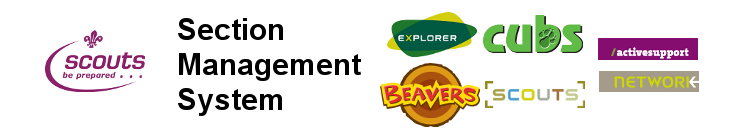
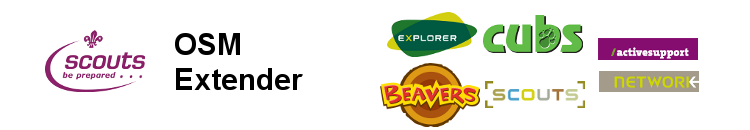
Change name/purpose to OSMExtender.

Changed region(s): [[0.2147, 0.1231, 0.4907, 0.8923]]

diff --git a/db/schema.rb b/db/schema.rb
@@ -11,7 +11,17 @@
 #
 # It's strongly recommended to check this file into your version control system.
 
-ActiveRecord::Schema.define(:version => 20110916141044) do
+ActiveRecord::Schema.define(:version => 20111231163444) do
+
+  create_table "sessions", :force => true do |t|
+    t.string   "session_id", :null => false
+    t.text     "data"
+    t.datetime "created_at"
+    t.datetime "updated_at"
+  end
+
+  add_index "sessions", ["session_id"], :name => "index_sessions_on_session_id"
+  add_index "sessions", ["updated_at"], :name => "index_sessions_on_updated_at"
 
   create_table "users", :force => true do |t|
     t.string   "email_address",                                      :null => false
@@ -27,9 +37,8 @@ ActiveRecord::Schema.define(:version => 20110916141044) do
     t.datetime "reset_password_email_sent_at"
     t.integer  "failed_logins_count",             :default => 0
     t.datetime "lock_expires_at"
-    t.boolean  "admin_system",                    :default => false
-    t.boolean  "admin_sms",                       :default => false
     t.string   "name"
+    t.boolean  "can_administer_users",            :default => false
   end
 
   add_index "users", ["activation_token"], :name => "index_users_on_activation_token"

diff --git a/config/initializers/session_store.rb b/config/initializers/session_store.rb
@@ -1,8 +1,8 @@
 # Be sure to restart your server when you modify this file.
 
-SectionManagementSystem::Application.config.session_store :cookie_store, key: 'SectionManagementSystem_session'
+# OSMExtender::Application.config.session_store :cookie_store, key: 'OSMExtender_session'
 
 # Use the database for sessions instead of the cookie-based default,
 # which shouldn't be used to store highly confidential information
 # (create the session table with "rails generate session_migration")
-# SectionManagementSystem::Application.config.session_store :active_record_store
+OSMExtender::Application.config.session_store :active_record_store

diff --git a/config/initializers/secret_token.rb b/config/initializers/secret_token.rb
@@ -4,4 +4,4 @@
 # If you change this key, all old signed cookies will become invalid!
 # Make sure the secret is at least 30 characters and all random,
 # no regular words or you'll be exposed to dictionary attacks.
[2 lines of base64/hex data omitted]

diff --git a/app/mailers/user_mailer.rb b/app/mailers/user_mailer.rb
@@ -1,5 +1,5 @@
 class UserMailer < ActionMailer::Base
-  default from: "\"Section Management System\" <section-management-system@aberdeen-sas.org.uk>"
+  default from: "\"OSMExtender\" <OSMExtender@robertgauld.co.uk>"
 
   def activation_needed(user)
     @user = user
@@ -55,7 +55,7 @@ class UserMailer < ActionMailer::Base
 
   private
   def build_subject(subject)
-    start = 'Section Management System'
+    start = 'OSMExtender'
     start += " (#{Rails.env.upcase})" unless Rails.env.production?
     return "#{start} - #{subject}"
   end

diff --git a/config/application.rb b/config/application.rb
@@ -9,7 +9,7 @@ if defined?(Bundler)
   # Bundler.require(:default, :assets, Rails.env)
 end
 
-module SectionManagementSystem
+module OSMExtender
   class Application < Rails::Application
     # Settings in config/environments/* take precedence over those specified here.
     # Application configuration should go into files in config/initializers

diff --git a/db/migrate/20111231163444_add_sessions_table.rb b/db/migrate/20111231163444_add_sessions_table.rb
@@ -1,0 +1,16 @@
+class AddSessionsTable < ActiveRecord::Migration
+  def up
+    create_table :sessions do |t|
+      t.string :session_id, :null => false
+      t.text :data
+      t.timestamps
+    end
+
+    add_index :sessions, :session_id
+    add_index :sessions, :updated_at
+  end
+
+  def down
+    drop_table :sessions
+  end
+end

diff --git a/config/environments/development.rb b/config/environments/development.rb
@@ -1,4 +1,4 @@
-SectionManagementSystem::Application.configure do
+OSMExtender::Application.configure do
   # Settings specified here will take precedence over those in config/application.rb
 
   # In the development environment your application's code is reloaded on

diff --git a/config/environments/test.rb b/config/environments/test.rb
@@ -1,4 +1,4 @@
-SectionManagementSystem::Application.configure do
+OSMExtender::Application.configure do
   # Settings specified here will take precedence over those in config/application.rb
 
   # The test environment is used exclusively to run your application's

diff --git a/config/environments/staging.rb b/config/environments/staging.rb
@@ -1,4 +1,4 @@
-SectionManagementSystem::Application.configure do
+OSMExtender::Application.configure do
   # Settings specified here will take precedence over those in config/application.rb
 
   # Log error messages when you accidentally call methods on nil.

diff --git a/config/environments/production.rb b/config/environments/production.rb
@@ -1,4 +1,4 @@
-SectionManagementSystem::Application.configure do
+OSMExtender::Application.configure do
   # Settings specified here will take precedence over those in config/application.rb
 
   # Code is not reloaded between requests

diff --git a/config/environment.rb b/config/environment.rb
@@ -2,4 +2,4 @@
 require File.expand_path('../application', __FILE__)
 
 # Initialize the rails application
-SectionManagementSystem::Application.initialize!
+OSMExtender::Application.initialize!

diff --git a/config/routes.rb b/config/routes.rb
@@ -1,4 +1,4 @@
-SectionManagementSystem::Application.routes.draw do
+OSMExtender::Application.routes.draw do
 
   get 'welcome/index'
   get 'my_page' => 'my_page#index', :as => 'my_page'
